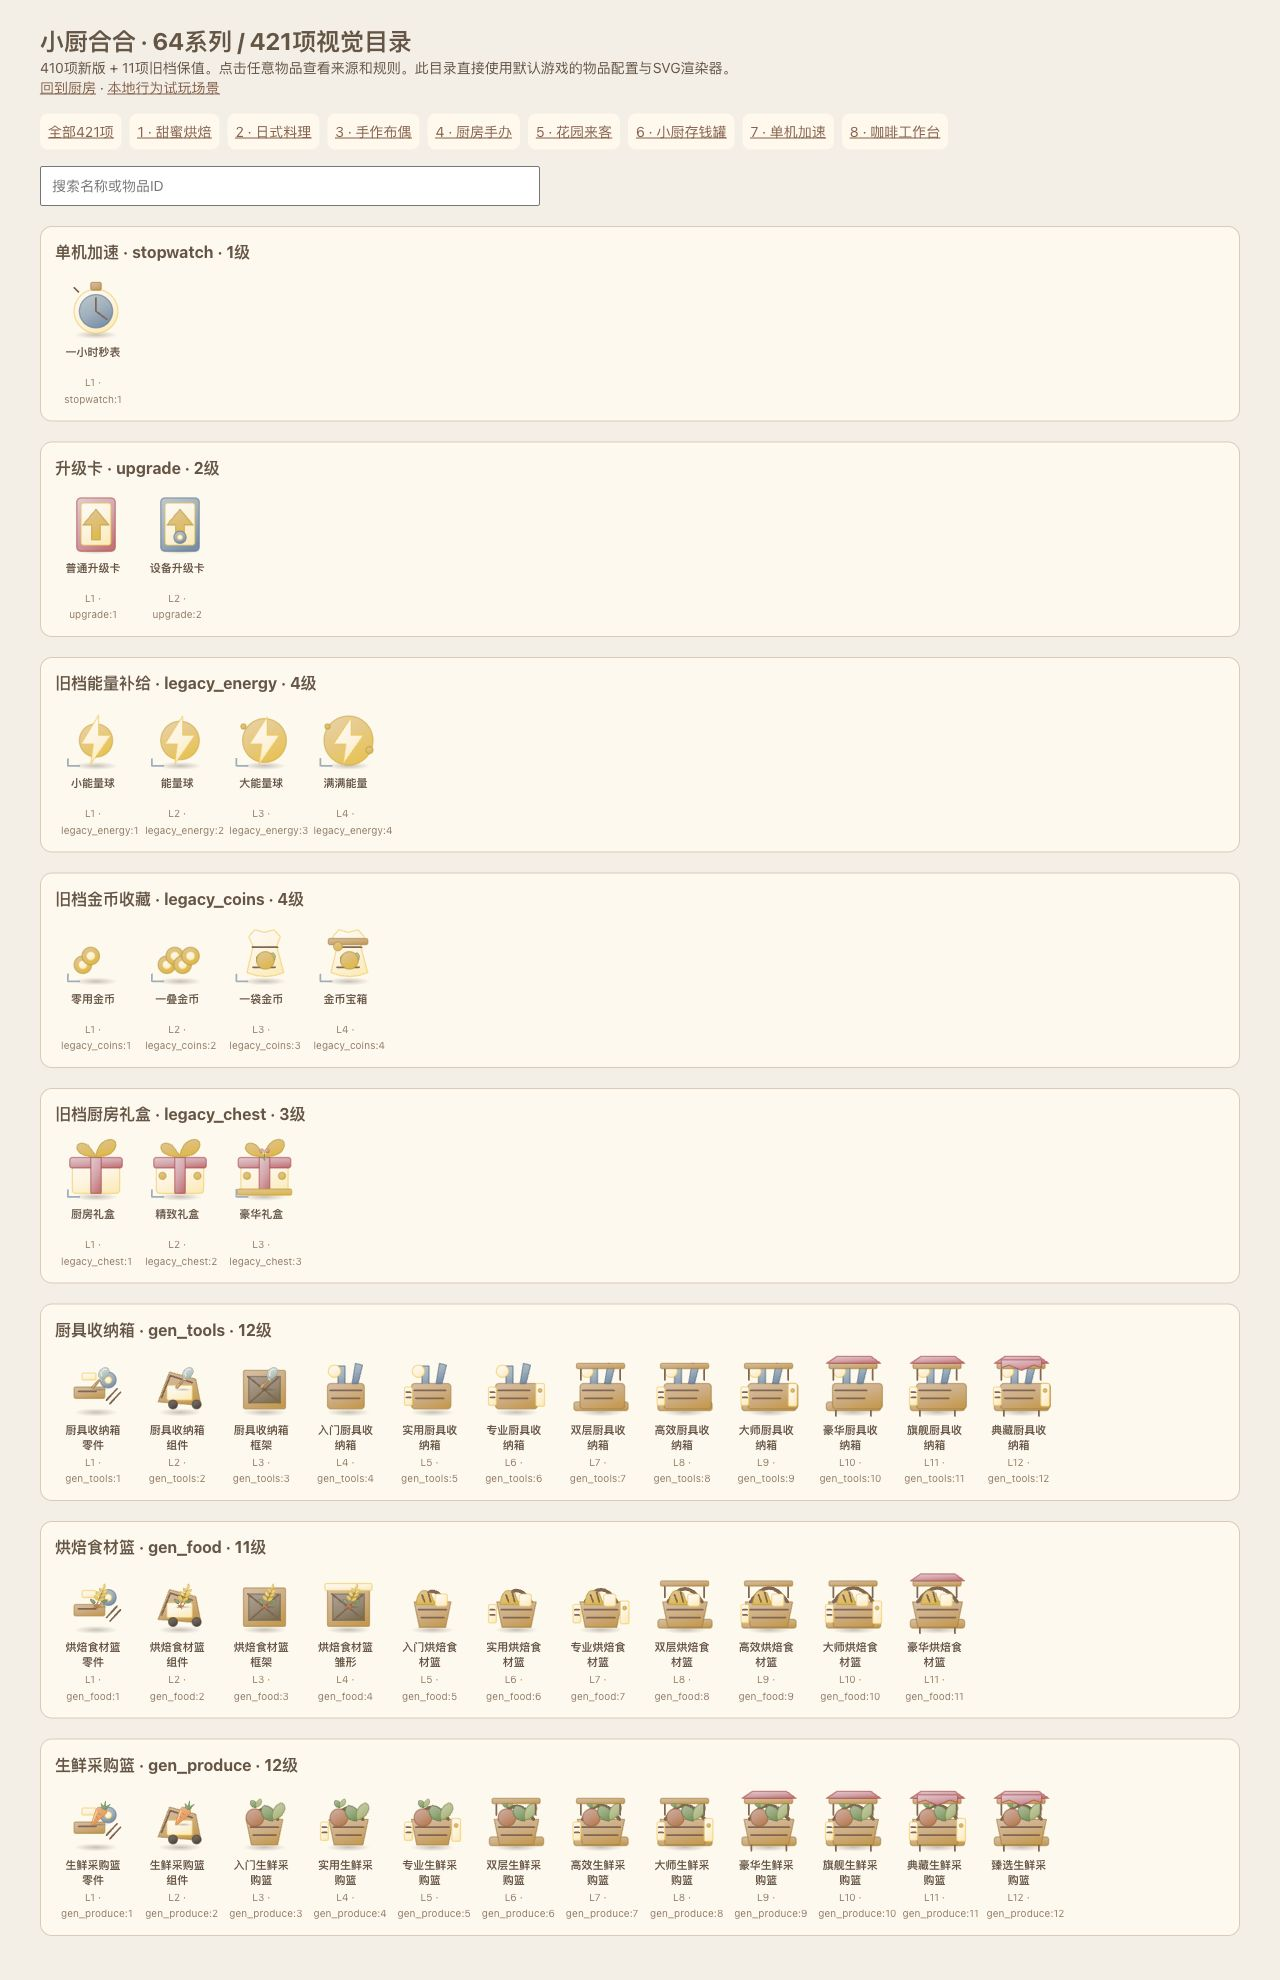
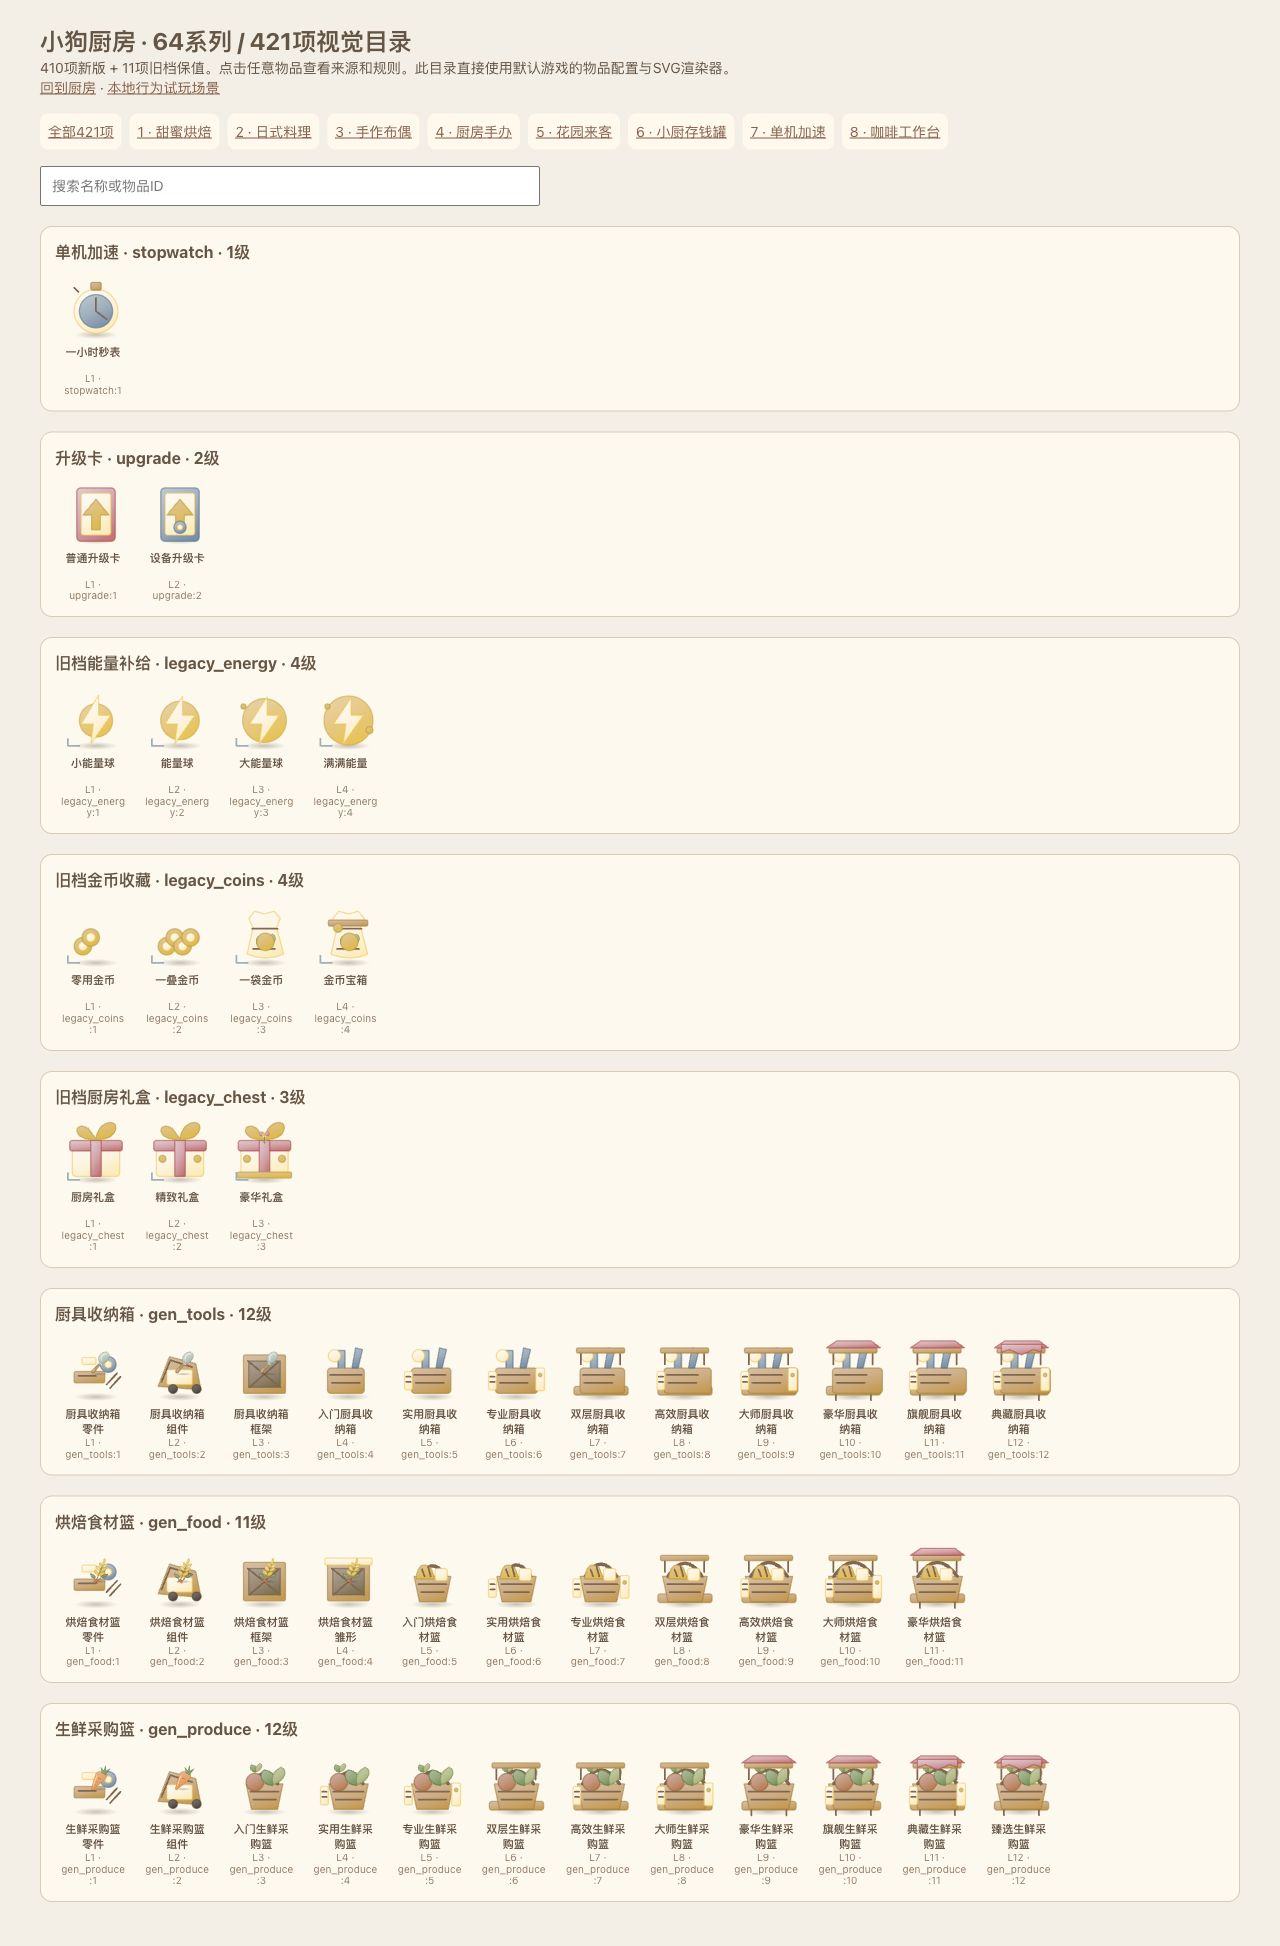
fix(kitchen-merge): preserve latest puppy UI and verify full balance flows

diff --git a/kitchen-merge/dist/scene.css b/kitchen-merge/dist/scene.css
@@ -219,3 +219,5 @@ dialog[data-view="phone"] {background:linear-gradient(#f7e5cf,#f4e1c8);}
 @media(max-width:420px){.k-orders .order-card{flex-basis:31%;min-width:107px}.order-top h3{font-size:11px}.order-top p{font-size:9px}.order-refresh{font-size:13px}.order-bottom .reward small{font-size:9px}.selection-actions .small-button{padding:5px 8px;font-size:11px}}
 .qa-controls{position:sticky;top:0;z-index:20;padding:6px;display:flex;gap:8px;justify-content:center;background:#ead5af;font:11px system-ui}.qa-controls button,.qa-controls a{border:0;border-radius:5px;padding:4px;color:#6b5542;background:#fff8e7}
 .k-design .k-orders{display:flex;flex-wrap:nowrap;height:156px;align-items:flex-end;padding-top:34px;padding-bottom:5px;bottom:5px}.k-orders .order-card{flex-shrink:0;height:116px}.k-orders .order-refresh{position:absolute;right:3px;top:6px;z-index:2}
+.k-orders .main-order-avatar{flex:none;width:42px;height:42px;background-size:537.6px 800.8px;background-position:-12.25px -8.75px}.k-orders .order-top h3{overflow-wrap:anywhere}
+.k-orders .order-empty{font-size:11px;line-height:1.5;padding:12px 8px}.order-empty strong{display:block;margin-bottom:8px}

diff --git a/kitchen-merge/dist/catalog.html b/kitchen-merge/dist/catalog.html
@@ -3,7 +3,7 @@
   <meta charset="utf-8" /><meta
     name="viewport"
     content="width=device-width,initial-scale=1"
-  /><title>小厨合合 · 全量视觉目录</title
+  /><title>小狗厨房 · 全量视觉目录</title
   ><link rel="stylesheet" href="./style.css" /><style>
     body {
       display: block;
@@ -90,7 +90,7 @@
     }
   </style>
   <header>
-    <h1>小厨合合 · 64系列 / 421项视觉目录</h1>
+    <h1>小狗厨房 · 64系列 / 421项视觉目录</h1>
     <p>
       410项新版 +
       11项旧档保值。点击任意物品查看来源和规则。此目录直接使用默认游戏的物品配置与SVG渲染器。

diff --git a/kitchen-merge/dist/qa.html b/kitchen-merge/dist/qa.html
@@ -3,7 +3,7 @@
   <meta charset="utf-8" /><meta
     name="viewport"
     content="width=device-width,initial-scale=1"
-  /><title>小厨本地验收场景</title
+  /><title>小狗厨房本地验收场景</title
   ><style>
     body {
       max-width: 650px;

diff --git a/kitchen-merge/README.md b/kitchen-merge/README.md
@@ -20,7 +20,7 @@ python3 -m http.server 4173 --bind 127.0.0.1 --directory dist
 - 12章96份主线与3槽重复订单并行。交单获得金币、经验和星星；完成本章8单后花星星布置，解锁新设备。10道配方消耗食材与补差体力，保留厨具。
 - 仓库暂停物品计时。日周委托、等级奖励、黑粉包、存钱罐、礼盒、钻石补体力、商店、泡泡、剪刀、补货箱、沙漏、秒表、无限体力、扩容包和升级卡均有入口。
 - 礼物面板可使用初始随身道具；实体道具从棋盘“使用 / 领取”进入目标选择和实际结果预览。满盘时奖励保留在待领区。
-- 当前浏览器自动保存v3进度。迁移前保存旧档原文和摘要；设置页可导出存档、事件与恢复旧备份，高版本存档进入保护页。
+- 当前浏览器沿用 `little-kitchen-save-v1` 键和原声音偏好，自动保存v3进度。迁移前保存旧档原文和摘要；设置页可导出存档、事件与恢复旧备份，高版本存档进入保护页。
 - 保留原创Web Audio配乐、音效、合成和交单动效、厨房环境与小狗店长手账。
 
 完整参数见 [设计包](docs/balance/README.md)，接入与适配见 [实现说明](docs/BALANCE_IMPLEMENTATION.md)。HTTP服务下访问 [全量视觉目录](dist/catalog.html) 或 [本地验收场景](dist/qa.html)。
